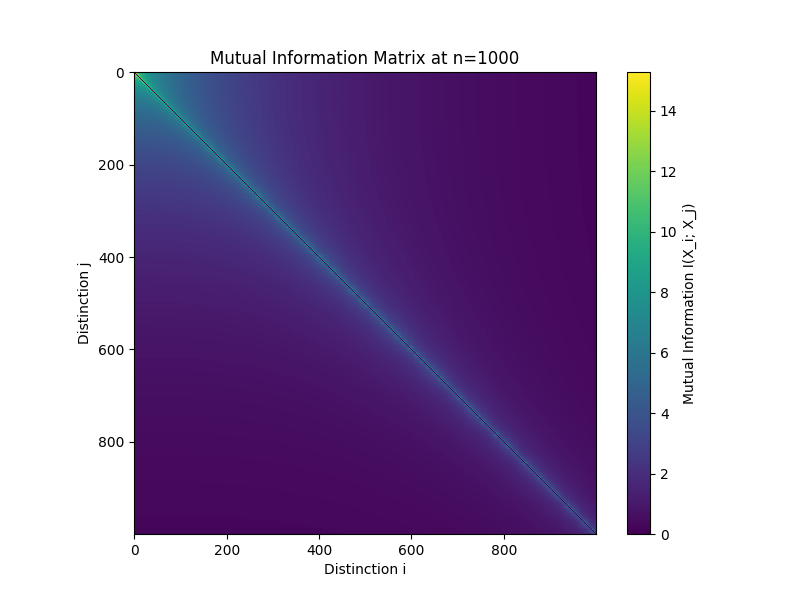
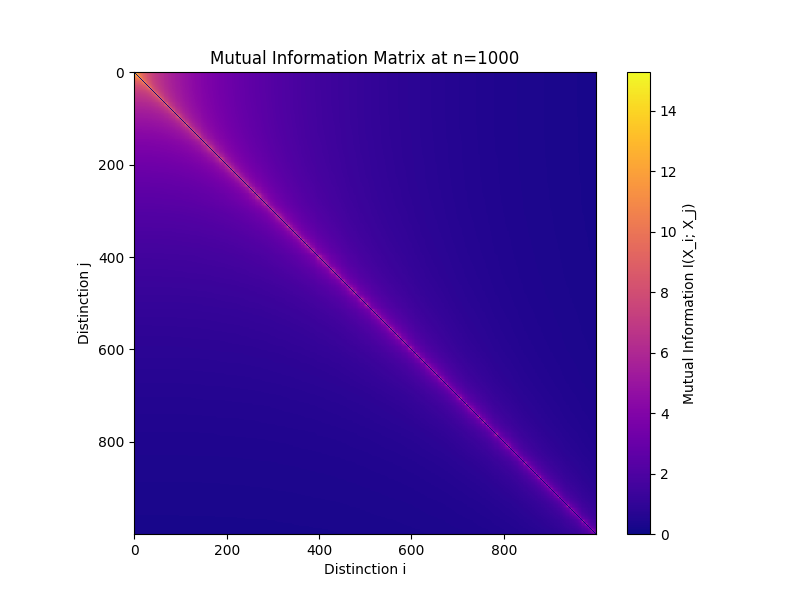
modified:   GU_DIM_Trans.py modified:   mutual_information_matrix.png

diff --git a/GU_DIM_Trans.py b/GU_DIM_Trans.py
@@ -184,7 +184,7 @@ def plot_results(G_full, results, metrics_history):
     # Plot 2: Mutual Information Matrix at n_max
     _, _, _, W = compute_metrics(G_full)
     plt.figure(figsize=(8, 6))
-    plt.imshow(W, cmap='viridis', interpolation='nearest')
+    plt.imshow(W, cmap='plasma', interpolation='nearest')
     plt.colorbar(label='Mutual Information I(X_i; X_j)')
     plt.title(f'Mutual Information Matrix at n={n_max}')
     plt.xlabel('Distinction i')
@@ -517,7 +517,7 @@ def simulate(n_max):
 
 # Run simulation                                                                  
 print("Starting simulation...")
-results = simulate(1000)
+results = simulate(5000)
 print("\nFinal Results:")
 print(f"1D→2D transition at n={results['2D']}")
 print(f"2D→3D transition at n={results['3D']}")
